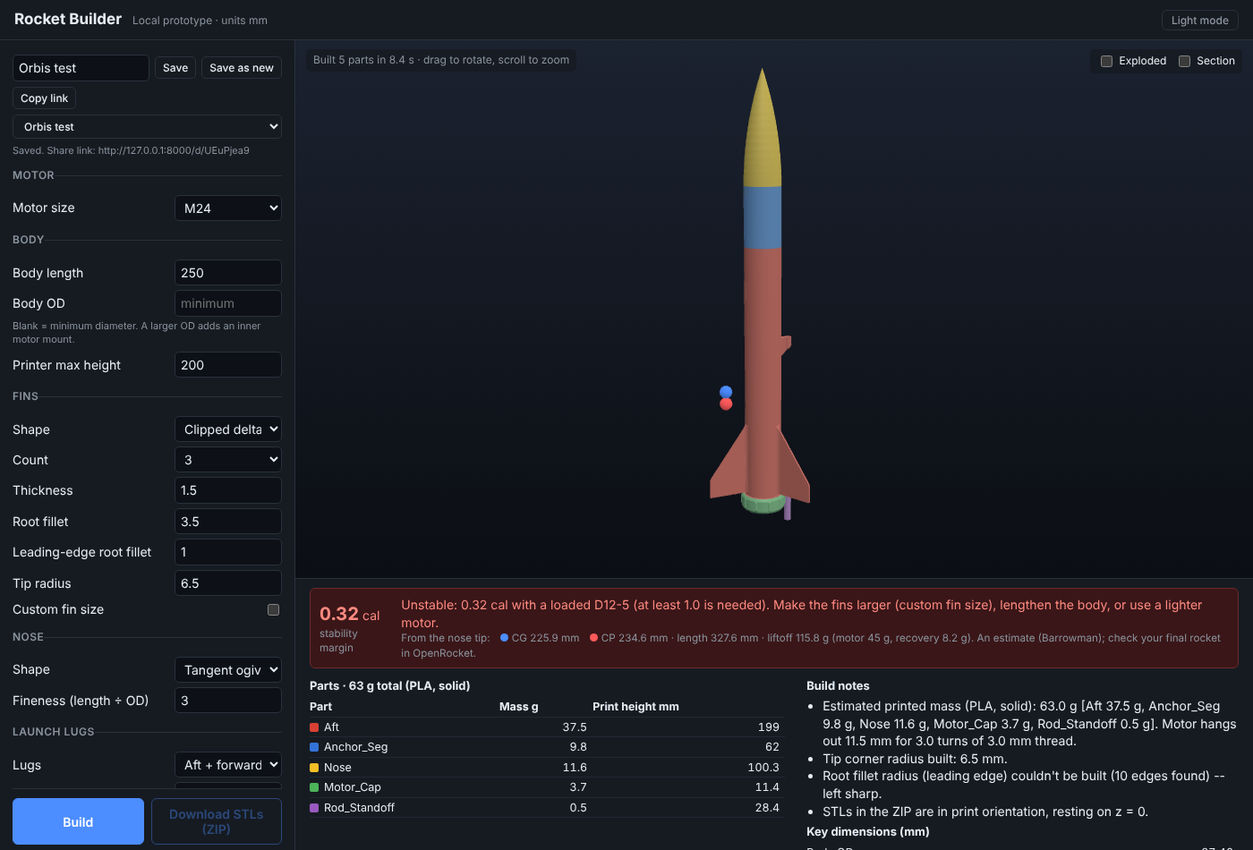
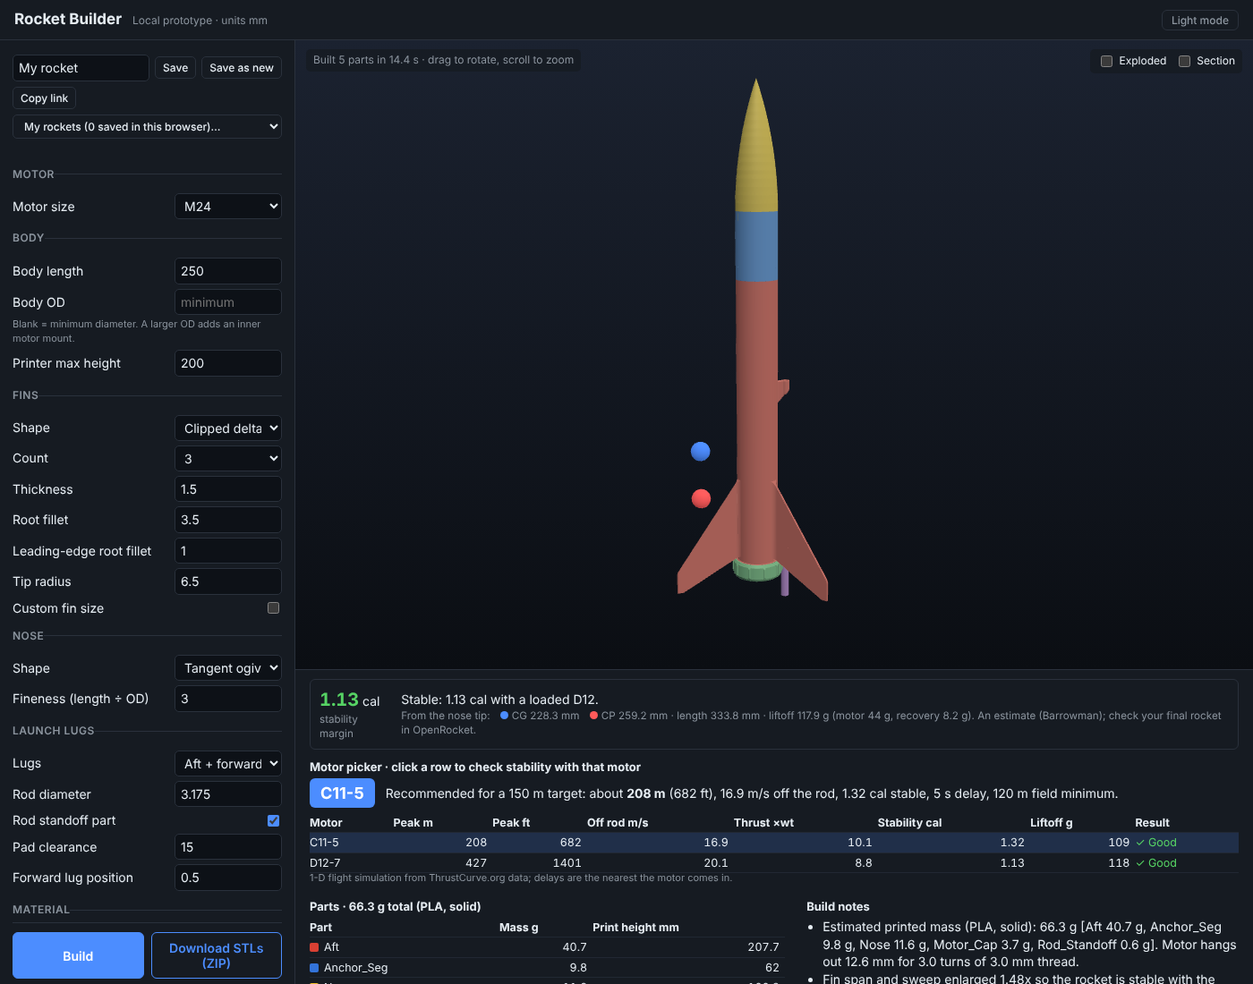
Motor picker and auto-sized fins, wired into the designer
- rocketgen/flight.py: the Rocket Motor Picker's flight sim, motor table
  in data/web_motors.csv. Every motor of the bay size is flown and
  checked for thrust-to-weight, rod speed, apogee and its own stability
  margin; the closest safe one to the target altitude is recommended.
- stability.build_stable: standard fins grow in span and sweep (not
  root: that moves the CP forward) until the heaviest motor is stable.
- Page: Flight group (target altitude, motor to check, recovery,
  advanced Cd and rod length) and a motor-picker table; clicking a row
  re-checks stability with that motor. Server builds work again.

Claude-Session: https://claude.ai/code/session_01GpA6jbyhcrgf7Qqic9bid9

diff --git a/server/static/index.html b/server/static/index.html
@@ -68,6 +68,14 @@
   .stab.overstable b.cal { color:var(--warn); }
   .stab small { color:var(--muted); display:block; }
   .dot { display:inline-block; width:9px; height:9px; border-radius:50%; margin:0 4px 0 8px; vertical-align:0; }
+  .picker { grid-column:1/-1; }
+  .picker .rec { display:flex; gap:12px; align-items:center; margin:2px 0 6px; }
+  .picker .chip { font:700 18px system-ui; padding:6px 12px; border-radius:6px; background:var(--accent); color:var(--accent-ink); }
+  .picker tr.best td { background:color-mix(in srgb, var(--accent) 18%, transparent); }
+  .picker tr.pick { cursor:pointer; }
+  .picker tr.pick:hover td { background:color-mix(in srgb, var(--accent) 10%, transparent); }
+  .bad { color:var(--err); } .good { color:var(--ok); }
+  details summary { cursor:pointer; margin:4px 0; }
   @media (max-width:800px) {
     main { grid-template-columns:1fr; height:auto; }
     #form { border-right:none; }
@@ -139,9 +147,14 @@
       <label>Filament <select name="material"></select></label>
     </fieldset>
     <fieldset><legend>Flight (stability check)</legend>
-      <label>Motor loaded mass, g <input type="number" name="motor_mass_g" min="1" max="500" step="0.1"></label>
+      <label>Target altitude, m <input type="number" name="target_altitude_m" min="10" max="3000" step="5"></label>
+      <label>Check with motor <select name="flight_motor"></select></label>
       <label>Recovery mass, g <input type="number" name="recovery_mass_g" min="0" max="500" step="0.1"></label>
-      <div class="hint">Blank = the heaviest common motor of this size, and a parachute + cord allowance. Enter your own to check a lighter motor.</div>
+      <div class="hint">Standard fins grow automatically until the heaviest motor of the size is stable. Recovery blank = a parachute + cord allowance.</div>
+      <details><summary class="hint">Advanced</summary>
+        <label>Drag coefficient <input type="number" name="drag_cd" min="0.2" max="1.5" step="0.05"></label>
+        <label>Launch rod, m <input type="number" name="launch_rod_m" min="0.3" max="3" step="0.01"></label>
+      </details>
     </fieldset>
     <div class="actions">
       <button id="build" type="submit">Build</button>
@@ -195,9 +208,16 @@ const sync = () => {
   form.elements.forward_lug_frac.disabled = form.elements.launch_lugs.value !== 'two';
 };
 form.addEventListener('change', sync); sync();
+function fillFlightMotors(keep) {
+  const list = opts.flight_motors[form.elements.motor.value] || [];
+  const heavy = list.reduce((a, m) => (!a || m.mass_g > a.mass_g ? m : a), null);
+  const el = form.elements.flight_motor, prev = keep ?? el.value;
+  el.innerHTML = `<option value="">Heaviest: ${heavy ? heavy.code : '?'} (worst case)</option>` +
+    list.map(m => `<option value="${m.code}">${m.code} · ${m.mass_g} g</option>`).join('');
+  el.value = list.some(m => m.code === prev) ? prev : '';
+}
 async function flightHints() {
-  const m = opts.motor_masses[form.elements.motor.value];
-  form.elements.motor_mass_g.placeholder = m ? `${m.loaded_g} (${m.example})` : '';
+  fillFlightMotors();
   const od = form.elements.body_od_override.value;
   try {
     const r = await (await fetch(`/api/recovery_allowance?motor=${form.elements.motor.value}${od ? `&body_od_override=${od}` : ''}`)).json();
@@ -214,9 +234,10 @@ function params() {
     const el = form.elements[k];
     if (el.type === 'checkbox') out[k] = el.checked;
     else if (el.type === 'number') out[k] = el.value === '' ? null : Number(el.value);
+    else if (k === 'flight_motor') out[k] = el.value || null;
     else out[k] = k === 'fin_count' ? Number(el.value) : el.value;
   }
-  for (const [k, v] of Object.entries(out)) if (v === null && !['body_od_override', 'motor_mass_g', 'recovery_mass_g'].includes(k)) out[k] = opts.defaults[k];
+  for (const [k, v] of Object.entries(out)) if (v === null && !['body_od_override', 'recovery_mass_g'].includes(k)) out[k] = opts.defaults[k];
   return out;
 }
 
@@ -323,6 +344,25 @@ async function showModel(url, parts) {
 }
 
 // ---------- report ----------
+function pickerHtml(f) {
+  const best = f.rows.find(x => x.code === f.recommended);
+  const FT = 3.28084;
+  const rec = best
+    ? `<div class="rec"><span class="chip">${esc(best.motor)}</span><div>Recommended for a ${f.target_m} m target:
+       about <b>${best.apogee_m} m</b> (${Math.round(best.apogee_m * FT)} ft), ${best.rod_speed_ms} m/s off the rod,
+       ${best.margin_cal} cal stable, ${best.delay_s} s delay, ${best.field_m} m field minimum.</div></div>`
+    : `<div class="rec bad">No motor of this size flies this rocket safely and stably. Make it lighter, or choose a bigger motor size.</div>`;
+  return `<div class="picker"><h2>Motor picker · click a row to check stability with that motor</h2>${rec}
+    <table><tr><th>Motor</th><th class="n">Peak m</th><th class="n">Peak ft</th><th class="n">Off rod m/s</th>
+      <th class="n">Thrust ×wt</th><th class="n">Stability cal</th><th class="n">Liftoff g</th><th>Result</th></tr>
+    ${f.rows.map(x => `<tr class="pick ${x.code === f.recommended ? 'best' : ''}" data-code="${esc(x.code)}">
+      <td>${esc(x.motor)}${x.out_of_production ? ' <small class="hint">out of production</small>' : ''}${x.mass_estimated ? ' <small class="hint">mass est.</small>' : ''}</td>
+      <td class="n">${x.apogee_m}</td><td class="n">${Math.round(x.apogee_m * FT)}</td><td class="n">${x.rod_speed_ms}</td>
+      <td class="n">${x.thrust_to_weight}</td><td class="n">${x.margin_cal.toFixed(2)}</td><td class="n">${x.liftoff_g}</td>
+      <td>${x.problems.length ? `<span class="bad">✕ ${esc(x.problems.join(', '))}</span>` : '<span class="good">✓ Good</span>'}</td></tr>`).join('')}
+    </table><div class="hint">1-D flight simulation from ThrustCurve.org data; delays are the nearest the motor comes in.</div></div>`;
+}
+
 function showReport(r) {
   const fmt = v => typeof v === 'number' ? (Number.isInteger(v) ? v : v.toFixed(2)) : esc(v);
   const st = r.stability;
@@ -335,6 +375,7 @@ function showReport(r) {
         liftoff ${st.liftoff_mass_g} g (motor ${st.motor_mass_g} g, recovery ${st.recovery_mass_g} g).
         An estimate (Barrowman); check your final rocket in OpenRocket.</small></div>
     </div>
+    ${pickerHtml(r.flights)}
     <div>
       <h2>Parts · ${r.total_mass_g} g total (${esc(form.elements.material.value)}, solid)</h2>
       <table><tr><th>Part</th><th class="n">Mass g</th><th class="n">Print height mm</th></tr>
@@ -348,6 +389,9 @@ function showReport(r) {
       <h2>Key dimensions (mm)</h2>
       <table>${Object.entries(r.dimensions).map(([k, v]) => `<tr><td>${esc(k)}</td><td class="n">${fmt(v)}</td></tr>`).join('')}</table>
     </div>`;
+  reportEl.querySelectorAll('tr.pick').forEach(tr => tr.onclick = () => {
+    form.elements.flight_motor.value = tr.dataset.code; runBuild();
+  });
 }
 
 form.addEventListener('submit', e => { e.preventDefault(); runBuild(); });
@@ -394,6 +438,8 @@ function renderMine() {
     list.map(d => `<option value="${esc(d.id)}" ${current?.id === d.id ? 'selected' : ''}>${esc(d.name)}</option>`).join('');
 }
 function setForm(p) {
+  form.elements.motor.value = p.motor ?? opts.defaults.motor;
+  fillFlightMotors(p.flight_motor ?? '');
   for (const k of Object.keys(opts.defaults)) {
     const el = form.elements[k], v = k in p ? p[k] : opts.defaults[k];
     if (!el) continue;

diff --git a/server/app.py b/server/app.py
@@ -28,12 +28,12 @@ from fastapi.staticfiles import StaticFiles
 from pydantic import BaseModel, Field
 
 from build123d import export_stl
-from rocketgen.build import build_rocket
 from rocketgen.export import PART_COLORS
 from rocketgen.fins import FinShape
 from rocketgen.geom import GeometryError
 from rocketgen.params import LUG_OPTIONS, MATERIALS, NOSE_SHAPES, DesignParams, compute_derived, load_motors
-from rocketgen.stability import load_motor_masses, recovery_allowance_g, stability
+from rocketgen.flight import FIELD_M, motors_for, pick, simulate
+from rocketgen.stability import Balance, build_stable, recovery_allowance_g
 
 import designs
 
@@ -69,12 +69,16 @@ class BuildRequest(BaseModel):
     pad_clearance: float = Field(15.0, ge=0, le=100)
     forward_lug_frac: float = Field(0.5, ge=0.2, le=0.95)
     material: str = "PLA"
-    # Flight: not geometry. None = the heaviest common motor of the size, and the default allowance.
-    motor_mass_g: float | None = Field(None, ge=1, le=500)
+    # Flight: not geometry. flight_motor None = the heaviest motor of the size;
+    # recovery_mass_g None = the default allowance.
+    flight_motor: str | None = None
     recovery_mass_g: float | None = Field(None, ge=0, le=500)
+    target_altitude_m: float = Field(150.0, ge=10, le=3000)
+    drag_cd: float = Field(0.65, ge=0.2, le=1.5)
+    launch_rod_m: float = Field(0.91, ge=0.3, le=3)
 
 
-FLIGHT_FIELDS = ("motor_mass_g", "recovery_mass_g")
+FLIGHT_FIELDS = ("flight_motor", "recovery_mass_g", "target_altitude_m", "drag_cd", "launch_rod_m")
 
 
 app = FastAPI(title="Rocket Builder")
@@ -100,6 +104,7 @@ def _report(rocket) -> dict:
             "Shoulder OD": d.shoulder_od, "Shoulder length": d.shoulder_len,
             "Motor hang-out": t["hang"], "Thread pitch": t["p"], "Thread turns": t["turns"],
             "Body segments": len(rocket.seg_lens),
+            "Fin span/sweep scale": rocket.params.fin_scale,
         },
     }
 
@@ -126,11 +131,11 @@ def _stls(rocket) -> dict[str, bytes]:
 def _stability(st) -> dict:
     return {"cg_mm": round(st.cg, 1), "cp_mm": round(st.cp, 1), "margin_cal": round(st.margin_cal, 2),
             "length_mm": round(st.length, 1), "liftoff_mass_g": round(st.total_mass_g, 1),
-            "motor_mass_g": st.motor_mass_g, "motor_example": st.motor_example,
+            "motor_mass_g": st.motor_mass_g, "motor": st.motor,
             "recovery_mass_g": st.recovery_mass_g, "status": st.status, "ok": st.ok, "message": st.message}
 
 
-def _zip(stls: dict[str, bytes], report: dict, stab: dict, params: dict) -> bytes:
+def _zip(stls: dict[str, bytes], report: dict, stab: dict, params: dict, flights: dict | None = None) -> bytes:
     buf = io.BytesIO()
     with zipfile.ZipFile(buf, "w", zipfile.ZIP_DEFLATED) as z:
         for name, data in stls.items():
@@ -142,6 +147,10 @@ def _zip(stls: dict[str, bytes], report: dict, stab: dict, params: dict) -> byte
                   f"(motor {stab['motor_mass_g']} g, recovery {stab['recovery_mass_g']} g).",
                   "  Check it in OpenRocket with your actual motor, recovery and paint before flying.",
                   "  Follow the NAR Model Rocket Safety Code."]
+        if flights:
+            lines += ["", f"Motors (target {flights['target_m']:g} m; recommended: {flights['recommended'] or 'none'}):"]
+            lines += [f"  {r['motor']}: {r['apogee_m']} m, {r['margin_cal']} cal, "
+                      + ("OK" if not r["problems"] else ", ".join(r["problems"])) for r in flights["rows"]]
         lines += ["", "Parts (STLs are in print orientation, resting on z = 0):"]
         lines += [f"  {p['name']}: {p['mass_g']} g, {p['height_mm']} mm tall" for p in report["parts"]]
         lines += ["", "Key dimensions (mm):"]
@@ -161,7 +170,8 @@ def options():
         "launch_lugs": list(LUG_OPTIONS),
         "materials": list(MATERIALS),
         "defaults": BuildRequest().model_dump(mode="json"),
-        "motor_masses": load_motor_masses(),
+        "flight_motors": {size: [{"code": m.code, "cls": m.cls, "mass_g": m.mass_g, "out_of_production": m.out_of_production}
+                                 for m in motors_for(size)] for size in load_motors()},
     }
 
 
@@ -185,13 +195,13 @@ def _geometry(geo_params: dict, req: BuildRequest) -> str:
             _geo.move_to_end(key)
             return key
         try:
-            rocket = build_rocket(DesignParams(**{**geo_params, "fin_shape": req.fin_shape}))
+            rocket = build_stable(DesignParams(**{**geo_params, "fin_shape": req.fin_shape}))
         except (GeometryError, ValueError) as ex:
             raise HTTPException(422, str(ex))
         except Exception as ex:  # an OpenCascade failure: never a bare 500
             raise HTTPException(422, f"The geometry engine could not build this design ({type(ex).__name__}). "
                                      "Try slightly different settings.")
-        _geo[key] = {"rocket": rocket, "glb": _glb(rocket), "report": _report(rocket), "stls": None}
+        _geo[key] = {"rocket": rocket, "balance": Balance(rocket), "glb": _glb(rocket), "report": _report(rocket), "stls": None}
         while len(_geo) > MAX_CACHED:
             _geo.popitem(last=False)
     return key
@@ -204,12 +214,37 @@ def build(req: BuildRequest):
         raise HTTPException(422, f"Unknown motor {req.motor!r}.")
     if req.material not in MATERIALS:
         raise HTTPException(422, f"Unknown material {req.material!r}.")
+    motors = {m.code: m for m in motors_for(req.motor)}
+    if req.flight_motor is not None and req.flight_motor not in motors:
+        raise HTTPException(422, f"{req.flight_motor} doesn't fit the {req.motor} motor bay.")
     geo_params = {k: v for k, v in params.items() if k not in FLIGHT_FIELDS}
     geo = _geometry(geo_params, req)
-    st = _stability(stability(_geo[geo]["rocket"], req.motor_mass_g, req.recovery_mass_g))
+    bal: Balance = _geo[geo]["balance"]
+    st = _stability(bal.check(motors.get(req.flight_motor), req.recovery_mass_g))
+    flights = _flights(bal, list(motors.values()), req)
     build_id = _key(params)
-    _builds[build_id] = {"geo": geo, "params": params, "stability": st}
-    return {"id": build_id, **_geo[geo]["report"], "stability": st}
+    _builds[build_id] = {"geo": geo, "params": params, "stability": st, "flights": flights}
+    return {"id": build_id, **_geo[geo]["report"], "stability": st, "flights": flights}
+
+
+def _flights(bal: Balance, motors: list, req: BuildRequest) -> dict:
+    """The motor picker: every motor of the bay size flown, each with its own
+    stability margin; the safe, stable one closest to the target altitude."""
+    rec = recovery_allowance_g(bal.body_od) if req.recovery_mass_g is None else req.recovery_mass_g
+    rows, safe = [], []
+    for m in motors:
+        f = simulate(m, bal.printed_mass_g + rec, bal.body_od, req.drag_cd, req.launch_rod_m)
+        st = bal.check(m, req.recovery_mass_g)
+        problems = list(f.problems) + ([] if st.ok else ["Unstable"])
+        if not problems:
+            safe.append(f)
+        rows.append({"motor": f"{m.code}-{f.delay}", "code": m.code, "cls": m.cls, "apogee_m": round(f.apogee),
+                     "rod_speed_ms": round(f.rod_speed, 1), "thrust_to_weight": round(f.thrust_to_weight, 1),
+                     "coast_s": round(f.coast, 1), "delay_s": f.delay, "margin_cal": round(st.margin_cal, 2),
+                     "liftoff_g": round(st.total_mass_g), "field_m": FIELD_M[m.cls], "problems": problems,
+                     "out_of_production": m.out_of_production, "mass_estimated": m.mass_estimated})
+    best = pick(safe, req.target_altitude_m)
+    return {"target_m": req.target_altitude_m, "rows": rows, "recommended": best and best.motor.code}
 
 
 def _get(build_id: str) -> tuple[dict, dict]:
@@ -232,7 +267,7 @@ def download(build_id: str):
     if g["stls"] is None:
         with _lock:
             g["stls"] = _stls(g["rocket"])
-    return Response(_zip(g["stls"], g["report"], b["stability"], b["params"]), media_type="application/zip",
+    return Response(_zip(g["stls"], g["report"], b["stability"], b["params"], b["flights"]), media_type="application/zip",
                     headers={"Content-Disposition": f'attachment; filename="rocket_{build_id}.zip"'})
 
 

diff --git a/geometry/tests/test_rocket.py b/geometry/tests/test_rocket.py
@@ -241,12 +241,30 @@ def test_fin_cp_rectangular_fin():
 
 
 def test_stability_default_and_trends():
+    from rocketgen.flight import motors_for
     from rocketgen.stability import stability
     s = stability(rocket())
-    assert 0.8 < s.margin_cal < 1.5 and s.ok and s.status == "stable"
+    assert 0.8 < s.margin_cal < 1.5 and s.ok and s.status == "stable" and s.motor == "C5"
     assert 0 < s.cg < s.length and 0 < s.cp < s.length
-    # A lighter motor and less recovery mass at the top: more stable.
-    assert stability(rocket(), motor_mass_g=15).margin_cal > s.margin_cal
-    # The heaviest M24 at minimum diameter needs bigger fins.
+    # A lighter motor: more stable.
+    a8 = next(m for m in motors_for("M18") if m.code == "A8")
+    assert stability(rocket(), a8).margin_cal > s.margin_cal
+    # The heaviest M24 at minimum diameter needs bigger fins than the standard ones.
     heavy = stability(rocket(motor="M24"))
     assert not heavy.ok and "Unstable" in heavy.message
+
+
+def test_auto_size_fins_makes_the_heaviest_motor_stable():
+    from rocketgen.stability import Balance, build_stable
+    r = build_stable(DesignParams(motor="M24"))
+    assert r.params.fin_scale > 1 and Balance(r).check().ok and "enlarged" in r.notes[0]
+    assert build_stable(DesignParams()).params.fin_scale == 1  # already stable: untouched
+
+
+def test_flight_sim_matches_the_motor_picker():
+    # M18, 52 g without motor, 20.8 mm: the HTML picker's numbers.
+    from rocketgen.flight import motors_for, pick, simulate
+    flights = {f.motor.code: f for f in (simulate(m, 52, 20.8) for m in motors_for("M18"))}
+    assert flights["C6"].apogee == pytest.approx(357, abs=3) and flights["C6"].ok
+    assert not flights["A8"].ok and "Too heavy for this motor" in flights["A8"].problems
+    assert pick(list(flights.values()), 150).motor.code == "B6"

diff --git a/server/tests/test_app.py b/server/tests/test_app.py
@@ -47,15 +47,27 @@ def test_out_of_bounds_input_is_rejected():
     assert client.post("/api/build", json={"motor": "M99"}).status_code == 422
 
 
+SMALL_FINS = {"custom_fin_size": True, "fin_root_chord": 25, "fin_span": 10, "fin_tip_chord": 12, "fin_sweep": 10}
+
+
 def test_unstable_rocket_previews_but_no_zip():
-    body = client.post("/api/build", json={"motor": "M24"}).json()
+    body = client.post("/api/build", json=SMALL_FINS).json()
     assert not body["stability"]["ok"]
     assert client.get(f"/api/builds/{body['id']}/preview.glb").status_code == 200
     r = client.get(f"/api/builds/{body['id']}/rocket.zip")
     assert r.status_code == 409 and "Unstable" in r.json()["detail"]
-    # The flight masses don't rebuild the geometry; a light motor passes.
-    light = client.post("/api/build", json={"motor": "M24", "motor_mass_g": 20, "recovery_mass_g": 0}).json()
+    # The flight inputs don't rebuild the geometry; a lighter motor is more stable.
+    light = client.post("/api/build", json={**SMALL_FINS, "flight_motor": "A8"}).json()
     assert light["stability"]["margin_cal"] > body["stability"]["margin_cal"]
+    assert client.post("/api/build", json={"flight_motor": "D12"}).status_code == 422  # not an 18 mm motor
+
+
+def test_motor_picker_and_auto_sized_fins():
+    body = client.post("/api/build", json={"motor": "M24", "target_altitude_m": 200}).json()
+    assert body["stability"]["ok"] and body["dimensions"]["Fin span/sweep scale"] > 1
+    f = body["flights"]
+    assert {r["code"] for r in f["rows"]} == {"C11", "D12"} and f["recommended"] in ("C11", "D12")
+    assert all(r["margin_cal"] >= 1 for r in f["rows"])
 
 
 def test_saved_design_share_link_and_edit_key():

diff --git a/geometry/rocketgen/fins.py b/geometry/rocketgen/fins.py
@@ -40,8 +40,10 @@ class Fin:
 
 def fin_dimensions(params, cal: float) -> Fin:
     """Final fin size. Custom sizes are used as typed; otherwise caliber
-    ratios, with span scaled by sqrt(3 / fin count), all times `fin_scale`
-    (the website's stability auto-size, 1 in the FeatureScript)."""
+    ratios, with span scaled by sqrt(3 / fin count). `fin_scale` (the
+    website's stability auto-size, 1 in the FeatureScript) multiplies span
+    and sweep only: a longer root would grow the fin forward from the tail
+    and move the CP forward, defeating the point."""
     common = dict(
         shape=FinShape(params.fin_shape),
         thickness=params.fin_thickness,
@@ -54,7 +56,7 @@ def fin_dimensions(params, cal: float) -> Fin:
                    sweep=params.fin_sweep, **common)
     p = FIN_PARAMS[common["shape"]]
     k = getattr(params, "fin_scale", 1.0)
-    root = p["root_cal"] * cal * k
+    root = p["root_cal"] * cal
     tip = p["tip_ratio"] * root
     if common["shape"] == FinShape.DELTA:
         tip = max(tip, 3.0)  # zero tip gets a 3 mm flat so it prints

diff --git a/geometry/rocketgen/stability.py b/geometry/rocketgen/stability.py
@@ -182,6 +182,9 @@ def build_stable(params: DesignParams) -> Rocket:
         rocket = build_rocket(rocket.params.with_(fin_scale=round(k, 3)))
     k = rocket.params.fin_scale
     if k > 1:
-        rocket.notes.insert(0, f"Fins enlarged {k:.2f}x so the rocket is stable with the heaviest "
-                               f"{params.motor} motor ({heaviest(params.motor).code}).")
+        motor = f"the heaviest {params.motor} motor ({heaviest(params.motor).code})"
+        rocket.notes.insert(0, f"Fin span and sweep enlarged {k:.2f}x so the rocket is stable with {motor}."
+                            if Balance(rocket).check().ok else
+                            f"Fin span and sweep enlarged to the {k:.2f}x limit, and the rocket is still unstable with "
+                            f"{motor}. Try another fin shape or a longer body, or use custom fins.")
     return rocket

diff --git a/server/README.md b/server/README.md
@@ -18,7 +18,9 @@ python -m pytest -q                 # server tests (about 10 s)
 | `GET /api/designs/{id}` | a saved design; `/d/{id}` is its share link, which opens and builds it |
 | `PUT` / `PATCH` / `DELETE /api/designs/{id}` | overwrite, rename, delete; need the `X-Edit-Key` header |
 
-**Stability** (`rocketgen/stability.py`): CP by Barrowman (nose + fins), CG from the printed parts' centroids plus the motor (default: the heaviest common motor of the size, loaded, from `rocketgen/data/web_motor_masses.csv`) and a recovery allowance. Under 1.0 caliber the preview still shows, with the CG (blue) and CP (red) marked, but the ZIP is withheld; entering the real motor's mass in the Flight group can clear it. Over 3 cal is a warning only.
+**Stability** (`rocketgen/stability.py`): CP by Barrowman (nose + fins), CG from the printed parts' centroids plus a loaded motor and a recovery allowance. With standard fin sizes, `build_stable` grows the fins' span and sweep (up to 2.5x) until the rocket is stable with the heaviest motor of its size; custom fins are left as typed. Under 1.0 caliber with the motor chosen under Flight (default: the heaviest) the preview still shows, with the CG (blue) and CP (red) marked, but the ZIP is withheld. Over 3 cal is a warning only.
+
+**Motor picker** (`rocketgen/flight.py`, ported from OS_Rocket_Builder `tools/motor-picker.html`): every Estes motor that fits the bay (`rocketgen/data/web_motors.csv`, ThrustCurve.org data) is flown in a 1-D simulation; it must reach 5x thrust-to-weight, 15 m/s off the rod and 30 m, and be stable with its own mass. The one closest to the target altitude is recommended, with its delay. Clicking a row re-checks stability with that motor.
 
 **Saved designs** (`designs.py`): SQLite at `ROCKETGEN_DB` (default `data/designs.sqlite3`). No accounts yet: saving returns an edit key that this browser keeps in localStorage with the design's id ("My rockets"); anyone with the link can open a design and save their own copy. Each design stores `generatorVersion` and `schemaVersion`.
 

diff --git a/README.md b/README.md
@@ -16,7 +16,7 @@ The geometry is a Python port, on build123d (OpenCascade), of the Onshape Featur
 - **Phase 1 (feature parity with the FeatureScript):** done, apart from two cosmetic items listed in `geometry/report.md`.
 - **Phase 2 (local web prototype):** done. Form → build → 3D preview (exploded, section) → ZIP of print-oriented STLs. Dark theme by default, with a light-mode toggle.
 - **Phase 3 (hosted beta):** in progress.
-  - Done: stability check (Barrowman CP, CG from the parts + motor + recovery; under 1.0 cal the ZIP is withheld), saved designs and share links (`/d/<id>`, SQLite, edit key per browser until sign-in exists), `Dockerfile`.
+  - Done: stability check (Barrowman CP, CG from the parts + motor + recovery; under 1.0 cal the ZIP is withheld); standard fins auto-grow (span and sweep) until the heaviest motor of the size is stable; motor picker (flight sim of every motor in the bay, recommendation for a target altitude, per-motor stability); saved designs and share links (`/d/<id>`, SQLite, edit key per browser until sign-in exists), `Dockerfile`.
   - Open: the Docker image hasn't been built yet (Docker Hub rate-limited the cloud sandbox); sign-in (replaces the edit key with an owner); deploying it. Both wait on the hosting choice, which goes with the owner's personal-site move off Squarespace.
 
 ```

diff --git a/geometry/report.md b/geometry/report.md
@@ -26,6 +26,8 @@ Not in the FeatureScript. CP: Barrowman, nose X = L − V/A_base (exact for ever
 
 Margins at the defaults (clipped delta, 3 fins, 250 mm, loaded heaviest motor): M13 2.7, M18 1.07, M24 0.32, M24L 0.26, M29 −0.02; M18 swept 0.84, rectangular 0.10, 4 fins 1.13. The printed parts are solid PLA and the aft segment carries most of the mass, so the bigger motors at minimum diameter need custom (larger) fins or a lighter motor. Not yet compared against OpenRocket: worth doing for two or three designs.
 
+Auto-size (`build_stable`): scaling the whole fin made things worse (a longer root grows the fin forward from the tail and moves the CP forward: M24 went from 0.32 to 0.02 cal at 2.5x), so only span and sweep are scaled. The scale comes from a prediction (CP of the scaled fins, CG with the blades' planform mass swapped) aimed at 1.15 cal, then one rebuild. Results with the heaviest motor: M24 1.48x → 1.13 cal, M24L 1.52x, M29 1.91x, rectangular M18 1.37x, swept M18 1.10x; M18 clipped delta and M13 unchanged. Rectangular fins on M29 hit the 2.5x limit at 0.76 cal (no sweep to grow) and are reported unstable.
+
 # Phase 0 (spike)
 
 ## Verdict
